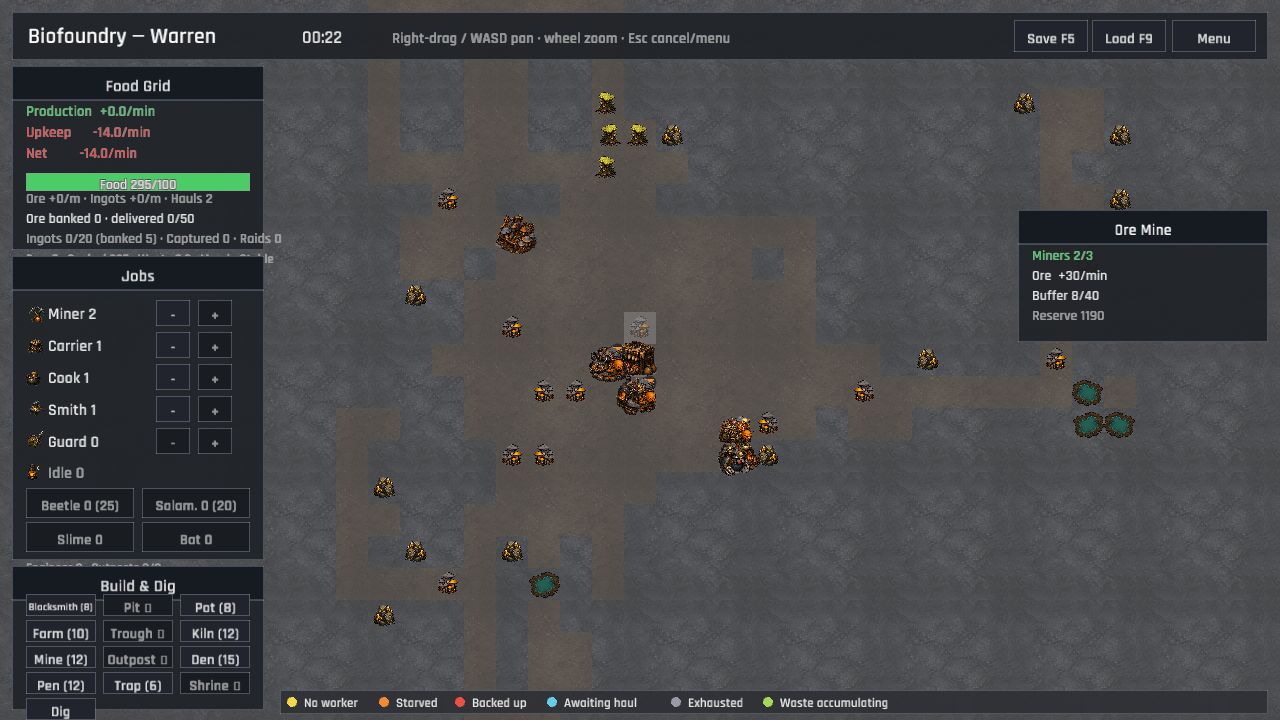
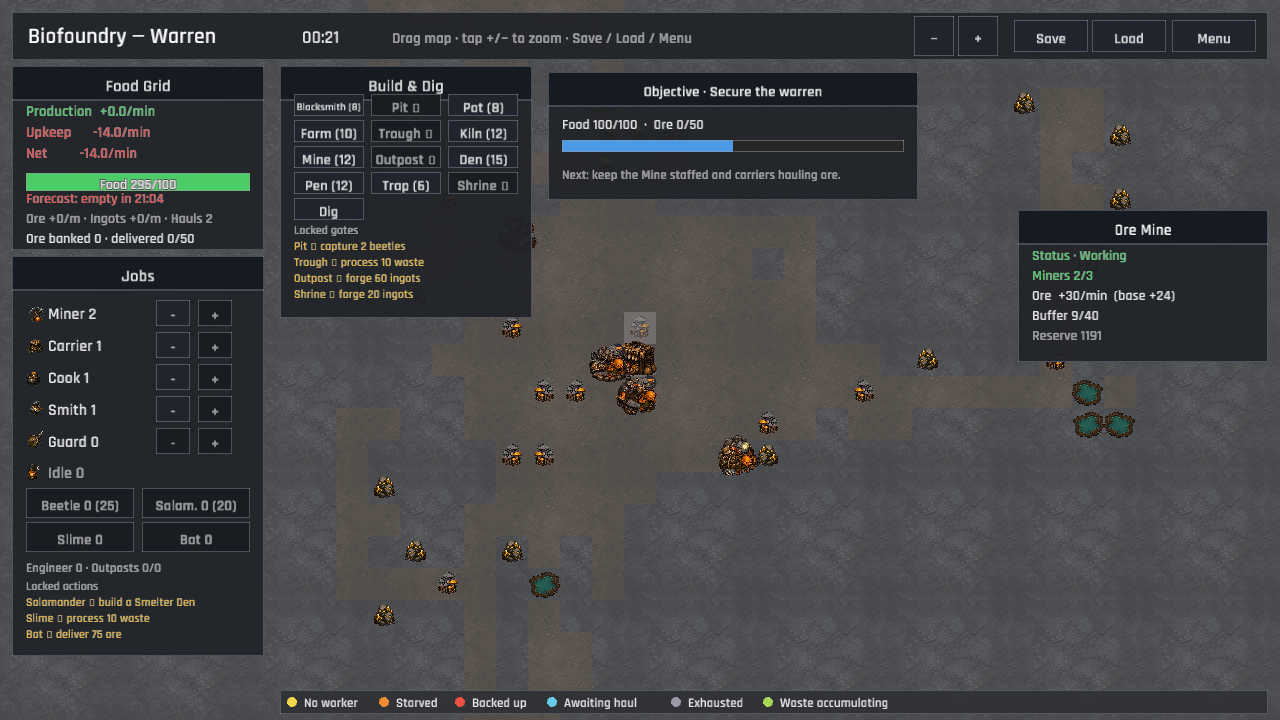
The pickaxe shows the ore it adds to every swing (P3 Iron Pickaxe throughput feedback)
The Mine inspection reported only its effective extraction rate, so the equipment loop had no visible before-and-after proof. It now compares the current rate with the same staffed miners without their pickaxe, making the gain explicit whenever equipment is improving throughput.

The comparison reuses the existing species and Overseer work multiplier and leaves the unboosted Mine readout unchanged. The equipment verification capture was refreshed, and the production checklist records the feedback item as complete.

Verified with cargo fmt -- --check, cargo test --all-targets (71 unit tests plus integration checks), cargo clippy --all-targets --all-features -- -D warnings, and publish.ps1 with no parameters.

diff --git a/src/ui/hud/inspect.rs b/src/ui/hud/inspect.rs
@@ -64,6 +64,15 @@ pub(super) fn draw_inspect_panel(
                 .map(|w| w.slots)
                 .unwrap_or(0);
             // Effective rate folds in each stationed miner's Iron Pickaxe.
+            let base_rate: f32 = session
+                .creatures
+                .iter()
+                .filter(|c| matches!(&c.task, Task::WorkMine(p) if *p == pos))
+                .map(|c| {
+                    data.balance.mine_ore_per_min
+                        * crate::ui::legibility::work_multiplier(c, session, data)
+                })
+                .sum();
             let rate: f32 = session
                 .creatures
                 .iter()
@@ -90,7 +99,12 @@ pub(super) fn draw_inspect_panel(
                 (format!("Miners {staffed}/{slots}"), dark::POSITIVE)
             };
             line(&worker_txt, worker_col, &mut y);
-            line(&format!("Ore  +{rate:.0}/min"), dark::TEXT, &mut y);
+            let rate_text = if rate > base_rate + 0.01 {
+                format!("Ore  +{rate:.0}/min  (base +{base_rate:.0})")
+            } else {
+                format!("Ore  +{rate:.0}/min")
+            };
+            line(&rate_text, dark::TEXT, &mut y);
             line(
                 &format!(
                     "Buffer {:.0}/{:.0}",

diff --git a/docs/phase-one/PRODUCTION_PLAN.md b/docs/phase-one/PRODUCTION_PLAN.md
@@ -70,7 +70,7 @@ response.
   Smelter, and Worm Shrine.
 - [x] Surface missing labor, missing input, output blockage, invalid route, and
   reserve-policy pauses in plain language.
-- [ ] Show before/after throughput when the Iron Pickaxe is equipped.
+- [x] Show before/after throughput when the Iron Pickaxe is equipped.
 - [x] Forecast famine and raid pressure early enough for a meaningful response.
 - [ ] Audit status colors for non-color cues and text contrast.
 
